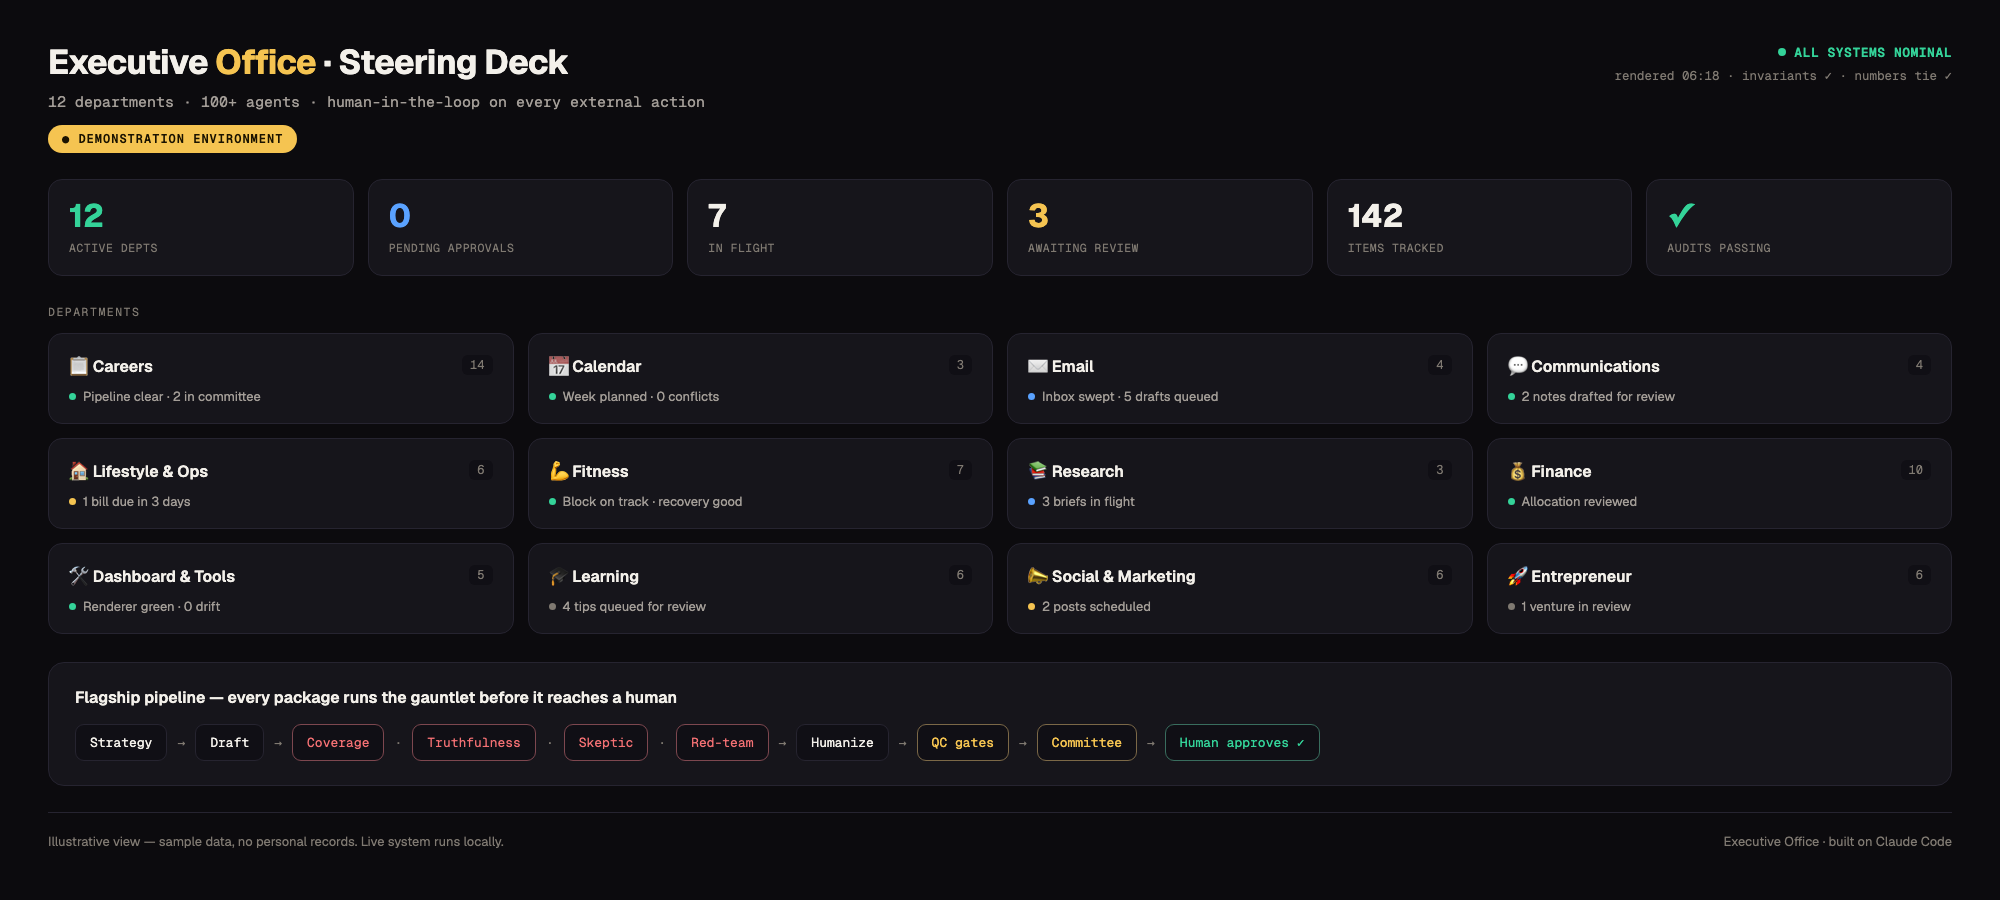
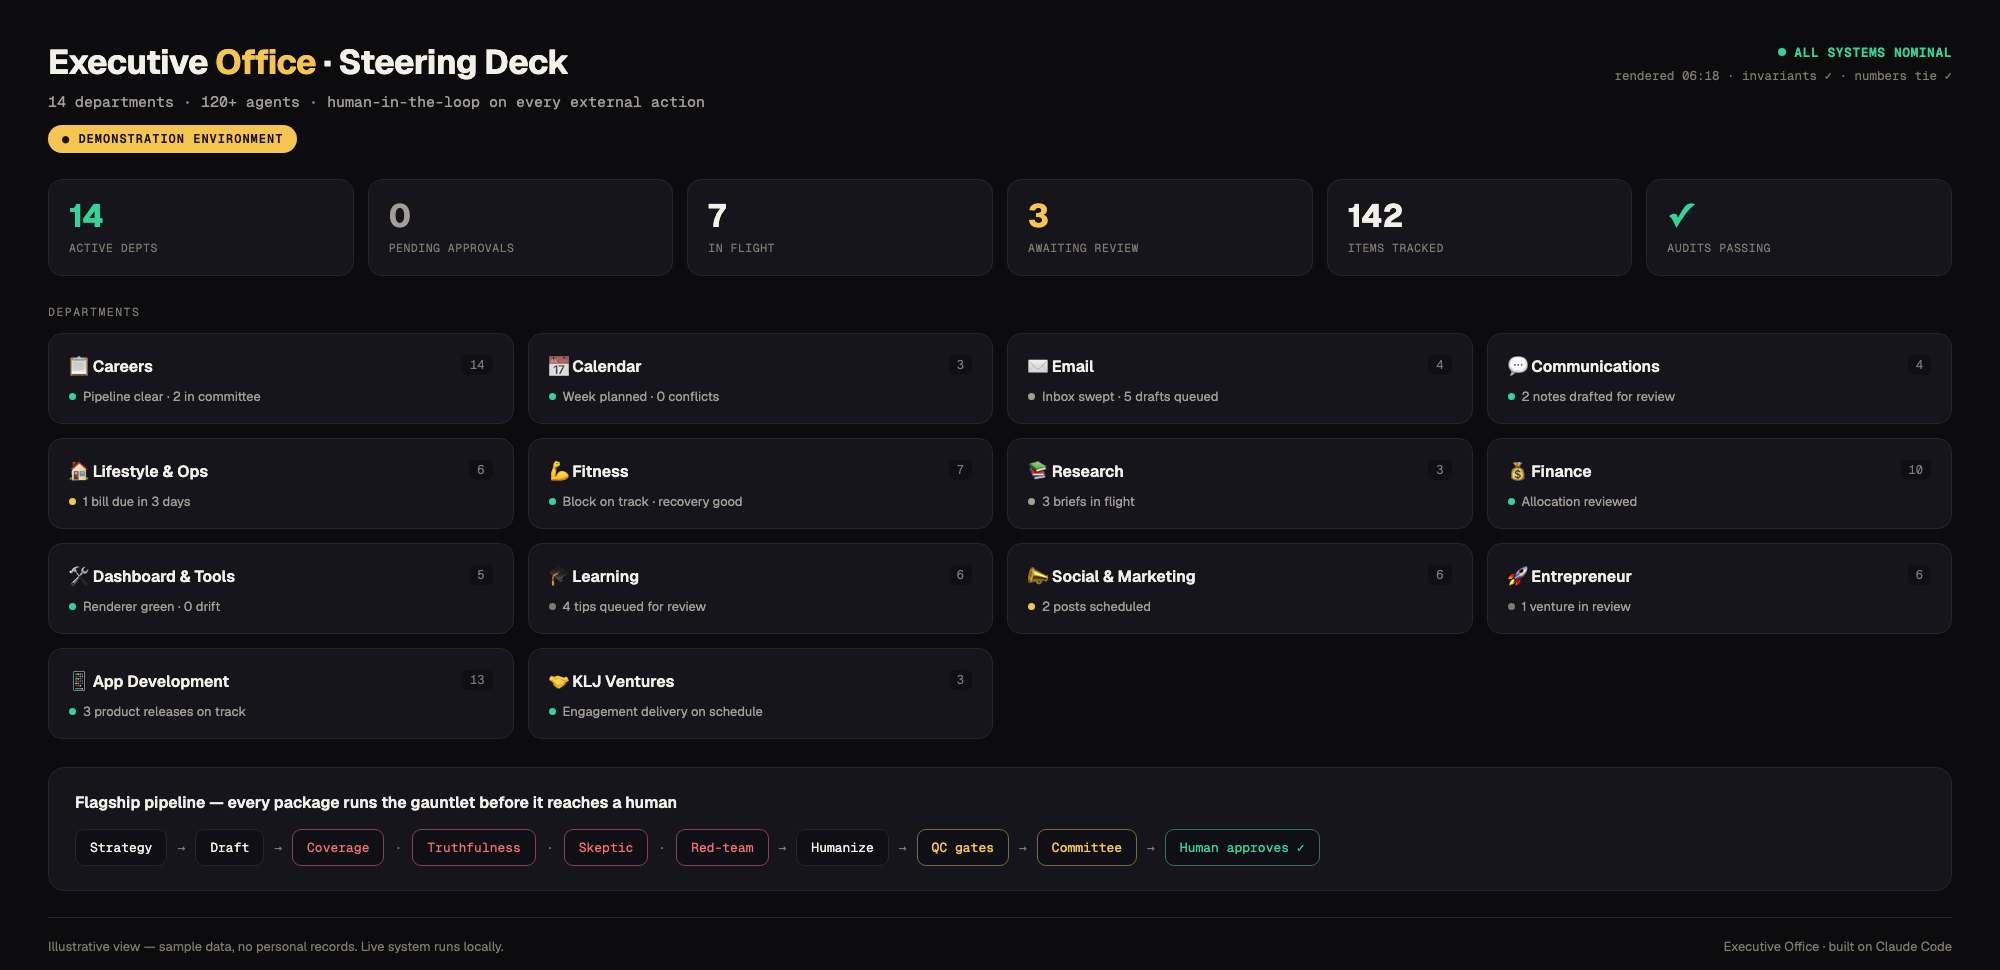
Update department/agent counts to 14 departments / 120+ agents
Badges, mermaid diagram, metrics table, and the full agent catalog were
stale at 12/100+ since before App Development (2026-08-07) and KLJ
Ventures (2026-09-04) were added. Updated every surface that cites the
count:

- README.md: badges, steering-deck caption, architecture prose, mermaid
  diagram (added App Development + KLJ Ventures nodes), metrics table,
  the What's here table row.
- ARCHITECTURE.md: opening line, ASCII org tree, department table (added
  both new rows).
- docs/AGENT-CATALOG.md: added full App Development (13) and KLJ Ventures
  (3) sections in the same function-first, role-only format every other
  department uses, no personal/client names anywhere; recounted the
  summary and Totals arithmetic (103 dept specialists + 3 leadership + 3
  model-tier + 14 QA = 123, +3 apex = 126, floor 120+).
- docs/source/steering-deck-demo.html: updated the stat line and dept
  grid (two new illustrative cards), then regenerated docs/steering-deck.png
  from the updated source via headless Chrome so the embedded screenshot
  in the README matches the text next to it.

KLJ Ventures is described generically throughout: "client engagement
operations, contracts, delivery, and commission tracking for consulting
work run under Kyle's LLC." No client name, no revenue percentage, no
contract terms anywhere in this repo. App Development is described
plainly (Veyra, Nightfolio, Escapade are Kyle's own non-confidential
products).
[…]

diff --git a/docs/source/steering-deck-demo.html b/docs/source/steering-deck-demo.html
@@ -46,7 +46,7 @@
   <div class="top">
     <div>
       <div class="ttl">Executive <b>Office</b> &middot; Steering Deck</div>
-      <div class="sub">12 departments &middot; 100+ agents &middot; human-in-the-loop on every external action</div>
+      <div class="sub">14 departments &middot; 120+ agents &middot; human-in-the-loop on every external action</div>
       <div class="badge-row"><span class="demo-badge">&#9679; DEMONSTRATION ENVIRONMENT</span></div>
     </div>
     <div class="status">
@@ -56,7 +56,7 @@
   </div>
 
   <div class="stats">
-    <div class="stat"><b class="g">12</b><span>Active depts</span></div>
+    <div class="stat"><b class="g">14</b><span>Active depts</span></div>
     <div class="stat"><b class="bl">0</b><span>Pending approvals</span></div>
     <div class="stat"><b class="wh">7</b><span>In flight</span></div>
     <div class="stat"><b class="go">3</b><span>Awaiting review</span></div>
@@ -78,6 +78,8 @@
     <div class="dept"><div class="h"><span class="name">🎓 Learning</span><span class="count">6</span></div><div class="st"><span class="dot" style="background:var(--ink3)"></span>4 tips queued for review</div></div>
     <div class="dept"><div class="h"><span class="name">📣 Social &amp; Marketing</span><span class="count">6</span></div><div class="st"><span class="dot" style="background:var(--amber)"></span>2 posts scheduled</div></div>
     <div class="dept"><div class="h"><span class="name">🚀 Entrepreneur</span><span class="count">6</span></div><div class="st"><span class="dot" style="background:var(--ink3)"></span>1 venture in review</div></div>
+    <div class="dept"><div class="h"><span class="name">📱 App Development</span><span class="count">13</span></div><div class="st"><span class="dot" style="background:var(--green)"></span>3 product releases on track</div></div>
+    <div class="dept"><div class="h"><span class="name">🤝 KLJ Ventures</span><span class="count">3</span></div><div class="st"><span class="dot" style="background:var(--green)"></span>Engagement delivery on schedule</div></div>
   </div>
 
   <div class="pipeline">

diff --git a/README.md b/README.md
@@ -1,8 +1,8 @@
 # Executive Office: a human-governed AI operating system for executive execution
 
 ![Built with Claude Code](https://img.shields.io/badge/Built_with-Claude_Code-d97757?style=flat-square)
-![Departments](https://img.shields.io/badge/Departments-12-6b7280?style=flat-square)
-![Agents](https://img.shields.io/badge/Agents-100%2B-6b7280?style=flat-square)
+![Departments](https://img.shields.io/badge/Departments-14-6b7280?style=flat-square)
+![Agents](https://img.shields.io/badge/Agents-120%2B-6b7280?style=flat-square)
 ![External actions](https://img.shields.io/badge/External_actions-human_approved-f5c451?style=flat-square)
 ![Approach](https://img.shields.io/badge/Applied_AI-orchestration-6b7280?style=flat-square)
 
@@ -10,7 +10,7 @@ For 12+ years I have been the Chief of Staff and Strategy & Operations leader wh
 
 ![Executive Office Steering Deck](docs/steering-deck.png)
 
-<sub>The Steering Deck: one glance across all 12 departments. This is a demonstration environment built with sample data, no personal records, ever. The live system renders from real state files locally and never commits private data; source for this demo view is at <a href="docs/source/steering-deck-demo.html">docs/source/steering-deck-demo.html</a>.</sub>
+<sub>The Steering Deck: one glance across all 14 departments. This is a demonstration environment built with sample data, no personal records, ever. The live system renders from real state files locally and never commits private data; source for this demo view is at <a href="docs/source/steering-deck-demo.html">docs/source/steering-deck-demo.html</a>.</sub>
 
 ## 1. The problem
 
@@ -34,7 +34,7 @@ Four principles, load-bearing across every department in this repo.
 The system is organized as four planes, the same separation an executive would recognize from running a company rather than from running software.
 
 - **Strategy** decides what and whether. Principles, standing rules, and judgment calls that outlive any single task. This plane sets direction; it does not touch execution directly.
-- **Execution** produces the work. Departments organized around real functions (careers, calendar, email, communications, finance, research, and more), each with a lead who plans and audits and a set of specialists who do the work. 12 single-threaded owners with hard gates: one lead per department, so accountability for a domain's output never splits across two owners, and no department's output reaches the next plane without clearing its gate.
+- **Execution** produces the work. Departments organized around real functions (careers, calendar, email, communications, finance, research, and more), each with a lead who plans and audits and a set of specialists who do the work. 14 single-threaded owners with hard gates: one lead per department, so accountability for a domain's output never splits across two owners, and no department's output reaches the next plane without clearing its gate.
 - **Measurement** remembers and verifies. State files, ledgers, and dashboards that every department writes to and every surface renders from, so there is one number for anything that gets counted, and a durable record of what actually happened.
 - **Interface** is the only plane a human spends attention on. A daily brief, a single approval queue, and interrupts reserved for what actually needs a decision now. Nothing reaches the operator except through here, and nothing leaves the system except through a decision made here.
 
@@ -63,6 +63,8 @@ flowchart TB
     COS --> D10["Learning"]
     COS --> D11["Social & Marketing"]
     COS --> D12["Entrepreneur"]
+    COS --> D13["App Development"]
+    COS --> D14["KLJ Ventures"]
 
     QA["Super-User QA: domain critics file tickets against every surface"]
     COS -.audited by.-> QA
@@ -75,7 +77,7 @@ flowchart TB
     class Coach,QA a
 ```
 
-Each of the 12 departments has a lead who plans and audits, and a bench of specialists, 100+ across the system, who each hold one clearly scoped job. The agent count is a scale fact about how the execution plane is staffed, not the design itself: the design is the four planes, the single-owner departments, and the gates between them. A system with 500 undifferentiated agents and no gates would be a worse system than this one with a tenth as many.
+Each of the 14 departments has a lead who plans and audits, and a bench of specialists, 120+ across the system, who each hold one clearly scoped job. The agent count is a scale fact about how the execution plane is staffed, not the design itself: the design is the four planes, the single-owner departments, and the gates between them. A system with 500 undifferentiated agents and no gates would be a worse system than this one with a tenth as many.
 
 The substrate underneath: Claude Code sub-agents, hooks, scheduled tasks, MCP integrations, slash commands, and file-based memory. See [ARCHITECTURE.md](./ARCHITECTURE.md) for the full diagrammed deep dive, including the flagship attack-defend-validate-decide pipeline.
 
@@ -102,8 +104,8 @@ Three incidents from the system's operating record, written as management lesson
 
 | | |
 |---|---|
-| **Departments** | 12, each a self-contained team with its own lead and specialists |
-| **Agents** | 100+, each with one clear role, its own instructions, and a scoped tool set |
+| **Departments** | 14, each a self-contained team with its own lead and specialists |
+| **Agents** | 120+, each with one clear role, its own instructions, and a scoped tool set |
 | **Flagship pipeline** | A 14-stage drafting to adversarial review to validation to go/no-go workflow |
 | **External actions** | Zero autonomous ones; every send and submit waits for a human click |
 | **Substrate** | Claude Code sub-agents, hooks, scheduled tasks, MCP integrations, slash commands, file-based memory |
@@ -117,7 +119,7 @@ Three incidents from the system's operating record, written as management lesson
 | Document | What's inside |
 |---|---|
 | [ARCHITECTURE.md](./ARCHITECTURE.md) | The deep dive: orchestration and dispatch, the adversarial review pipeline, the human-in-the-loop gate model, state and memory, the QA critic layer, and model-tier routing. Six diagrams. |
-| [docs/AGENT-CATALOG.md](./docs/AGENT-CATALOG.md) | The complete roster across 12 departments, leadership, and the QA team, each agent with its single job. |
+| [docs/AGENT-CATALOG.md](./docs/AGENT-CATALOG.md) | The complete roster across 14 departments, leadership, and the QA team, each agent with its single job. |
 | [docs/PIPELINE.md](./docs/PIPELINE.md) | The 14-stage work pipeline, stage by stage. |
 | [docs/PATTERNS.md](./docs/PATTERNS.md) | Six engineering patterns worth stealing, with the failures that produced them. |
 | [examples/](./examples) | Sanitized, runnable-shaped examples, including [a full pipeline run](./examples/pipeline-run-example.md) with a real truthfulness-gate kickback: an agent, a critic, a slash command, a hook, a scheduled task, a status file. |

diff --git a/docs/AGENT-CATALOG.md b/docs/AGENT-CATALOG.md
@@ -31,12 +31,14 @@ Each row pairs a function with the role that owns it.
 - [Learning and Improvement (6)](#learning-and-improvement-6)
 - [Social and Marketing (6)](#social-and-marketing-6)
 - [Entrepreneur and Ventures (6)](#entrepreneur-and-ventures-6)
+- [App Development (13)](#app-development-13)
+- [KLJ Ventures (3)](#klj-ventures-3)
 - [Super-User QA: the standing critics (14)](#super-user-qa-the-standing-critics-14)
 - [Totals](#totals)
 
 ## The count, verified
 
-87 department specialists, plus the 3-role leadership layer, the 3-agent model-tier routing team, and the 14-agent QA team, is 107 named agents. Add the 3-agent apex governance layer and the total is 110, which is why the system is described by the round floor of 100+. The full breakdown, department by department, is in [Totals](#totals) at the bottom.
+103 department specialists, plus the 3-role leadership layer, the 3-agent model-tier routing team, and the 14-agent QA team, is 123 named agents. Add the 3-agent apex governance layer and the total is 126, which is why the system is described by the round floor of 120+. The full breakdown, department by department, is in [Totals](#totals) at the bottom.
 
 ## Leadership layer
 
@@ -236,6 +238,28 @@ A panel that pressure-tests every new venture from 5 angles, then synthesizes a 
 | Founder fit and the gut check: is the principal the right person to build this right now, at this life stage. | Founder Fit |
 | Tech feasibility and scaling: can it be built, with what stack, in what timeframe, and will it hold past 100 users. | Tech Feasibility |
 
+## App Development (13)
+
+The build-and-operate team for three of my own software products. A portfolio lead synthesizes the three product teams' sprint reports into one master release calendar and tracks cross-app dependencies and risk; each product runs its own dedicated team end to end, one product manager, one engineer, one QA lead, and one designer, so no product waits on another's bandwidth.
+
+| Function | Role |
+|---|---|
+| Owns the portfolio-level view across all three products; synthesizes each team's sprint reports into one release calendar, tracks cross-app dependencies and risk. Does not write code or design features directly, that is each product team's job. | Department Head / Portfolio Lead |
+| Owns the product's backlog, sprint plan, and release calendar; runs the sprint-retrospective and forward-roadmap discipline; decides what ships next. One per product. | Product Manager |
+| Owns technical and architecture calls for the product; dispatches and reviews implementation work. One per product. | Engineering Lead |
+| Owns release-gate testing for the product; nothing ships until this role signs off. One per product. | QA Lead |
+| Owns product-taste and visual-consistency sign-off for the product; reviews anything visual before it ships broadly. One per product. | Design/UX Lead |
+
+## KLJ Ventures (3)
+
+The operating department for client engagement work under my LLC: contracts, delivery, and commission tracking for consulting engagements. Distinct from App Development (the product lane, above) and from Finance (which keeps the LLC's tax and expense side). No client is named anywhere in this repository, the same discipline every other department here holds for anything outside what is mine alone to publish.
+
+| Function | Role |
+|---|---|
+| Owns client relationships, engagement scoping, and negotiation posture; owns the client pipeline end to end. | Department Head / Client Partner |
+| Owns day-to-day engagement delivery: call packets, status tracking, the living engagement record. | Engagement Manager |
+| Owns the agreement lifecycle: contracts, the deal-registration ledger, and revenue reporting to Finance. | Contracts and Commission Operations |
+
 ## Super-User QA: the standing critics (14)
 
 Domain critics, each modeled on a recognized authority in their field, who walk every dashboard from a user's perspective and file tickets against anything that does not hold up. A program manager triages and routes; the principal is removed from the QA loop, and tickets reach the brief only after routing. The people who build the surfaces are never the people who grade them: the resume pipeline's rule, applied to the tools.
@@ -259,4 +283,4 @@ Domain critics, each modeled on a recognized authority in their field, who walk 
 
 ## Totals
 
-3 leadership roles, 12 departments, a 3-agent model-tier routing team, and a 14-agent QA team. The departments carry Careers (23, including the 8-agent case-study studio added 2026-07-11), Research (3), Finance (10), Calendar (3), Email (4), Communications (6), Lifestyle and Operations (7), Fitness (7), Dashboard and Tools (6), Learning (6), Social and Marketing (6), and Entrepreneur (6), for 87 department specialists. With the 3-person leadership layer, the 3-agent model-tier routing team, and the 14-agent QA team, that is 107 named agents in the catalog above, each a single-purpose unit you can actually hold in your head. A 3-agent apex governance layer sits over the whole system as its final quality gate; it decides nothing externally and sends nothing. Counting it, the system runs 110 named agents in all, which is why it is described by the round floor of 100+.
+3 leadership roles, 14 departments, a 3-agent model-tier routing team, and a 14-agent QA team. The departments carry Careers (23, including the 8-agent case-study studio added 2026-07-11), Research (3), Finance (10), Calendar (3), Email (4), Communications (6), Lifestyle and Operations (7), Fitness (7), Dashboard and Tools (6), Learning (6), Social and Marketing (6), Entrepreneur (6), App Development (13, added 2026-08-07), and KLJ Ventures (3, added 2026-09-04), for 103 department specialists. With the 3-person leadership layer, the 3-agent model-tier routing team, and the 14-agent QA team, that is 123 named agents in the catalog above, each a single-purpose unit you can actually hold in your head. A 3-agent apex governance layer sits over the whole system as its final quality gate; it decides nothing externally and sends nothing. Counting it, the system runs 126 named agents in all, which is why it is described by the round floor of 120+.

diff --git a/ARCHITECTURE.md b/ARCHITECTURE.md
@@ -2,7 +2,7 @@
 
 A deeper look at how the Executive Office is structured. Sanitized companion to the [README](./README.md).
 
-This is a multi-agent operations system: 100+ agents across 12 departments, run on Claude Code, that draft, review, validate, and surface real day-to-day work. The design goal is not a clever demo. It is a system that stays correct over months of daily use and never takes an irreversible action on the principal's behalf without an explicit human click.
+This is a multi-agent operations system: 120+ agents across 14 departments, run on Claude Code, that draft, review, validate, and surface real day-to-day work. The design goal is not a clever demo. It is a system that stays correct over months of daily use and never takes an irreversible action on the principal's behalf without an explicit human click.
 
 ## The shape
 
@@ -12,7 +12,7 @@ Human (principal)
 ├── Executive Assistant ....... hour-by-hour task list, day-of nudges, quick lookups (peer to CoS)
 ├── Strategic Coach ........... advisory; reviews the whole system for drift and unused capability
 ├── Super-User QA ............. domain critics + a QA program manager file and route tickets
-└── 12 Departments
+└── 14 Departments
     └── each: one lead + N specialists
 ```
 
@@ -36,6 +36,8 @@ Each exposes the same contract: a status file (current state, metrics, recent ac
 | Learning | Curating and adopting workflow improvements |
 | Social & Marketing | Content pipeline and cadence |
 | Entrepreneur | Venture evaluation |
+| App Development | Build-and-operate for Kyle's own software products |
+| KLJ Ventures | Client engagement operations for consulting work run under Kyle's LLC |
 
 ## 1 · Orchestration and dispatch
 
